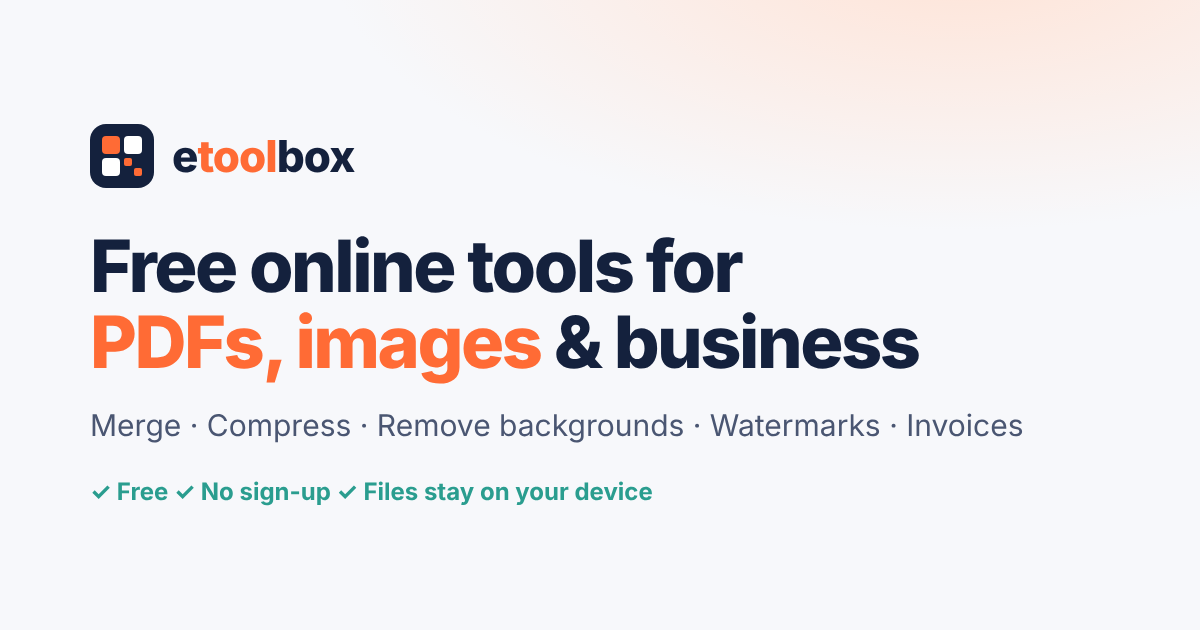
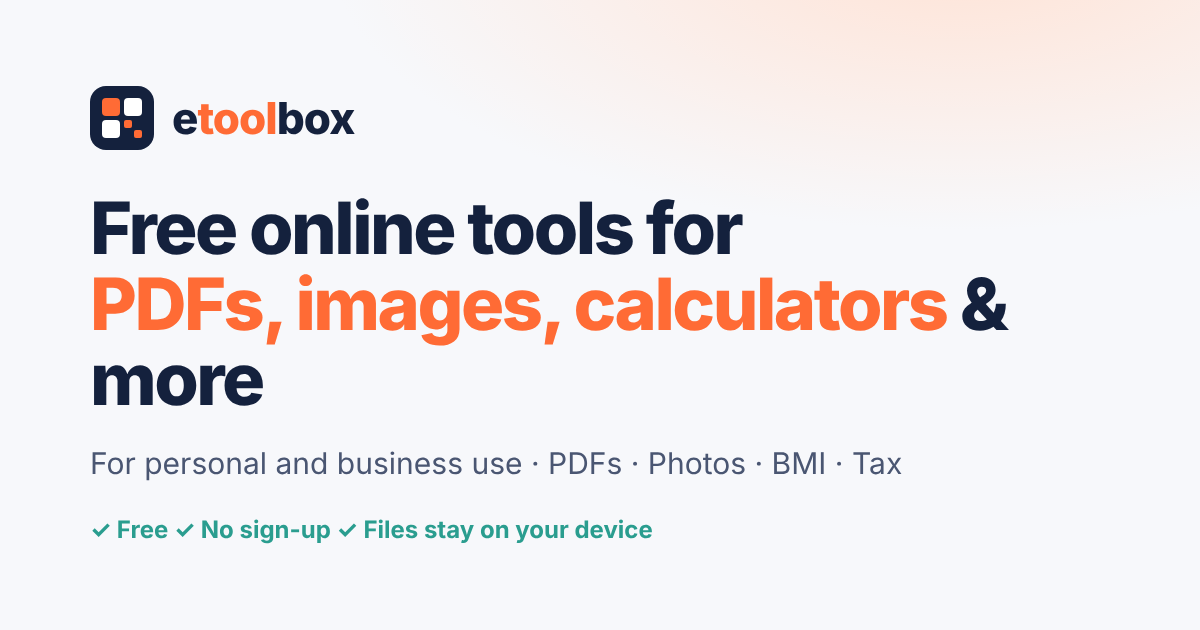
Homepage heading: PDFs, images, calculators and more, for personal and business use; add BMI to popular tools; update title, description and OG image
Claude-Session: https://claude.ai/code/session_01GjMevr6PLp3fW9vrzHc816

Changed region(s): [[0.0617, 0.1206, 0.8633, 0.8746]]

diff --git a/index.html b/index.html
@@ -3,14 +3,14 @@
 <head>
 <meta charset="utf-8">
 <meta name="viewport" content="width=device-width, initial-scale=1">
-<title>Free Online PDF, Image &amp; Business Tools – No Sign-up | etoolbox</title>
-<meta name="description" content="Merge, compress and convert PDFs, remove image backgrounds with AI, add watermarks, make invoices and work out UK tax. 72 free tools that run in your browser, so your files stay private.">
+<title>Free Online Tools – PDF, Image &amp; Calculators, No Sign-up | etoolbox</title>
+<meta name="description" content="Free tools for personal and business use: merge and compress PDFs, remove image backgrounds with AI, add watermarks, make invoices, and use BMI, VAT and UK tax calculators. 72 free tools that run in your browser, so your files stay private.">
 <link rel="canonical" href="https://etoolbox.co.uk/">
 <meta property="og:type" content="website">
 <meta property="og:site_name" content="etoolbox">
 <meta property="og:locale" content="en_GB">
-<meta property="og:title" content="Free Online PDF, Image &amp; Business Tools – No Sign-up | etoolbox">
-<meta property="og:description" content="Merge, compress and convert PDFs, remove image backgrounds with AI, add watermarks, make invoices and work out UK tax. 72 free tools that run in your browser, so your files stay private.">
+<meta property="og:title" content="Free Online Tools – PDF, Image &amp; Calculators, No Sign-up | etoolbox">
+<meta property="og:description" content="Free tools for personal and business use: merge and compress PDFs, remove image backgrounds with AI, add watermarks, make invoices, and use BMI, VAT and UK tax calculators. 72 free tools that run in your browser, so your files stay private.">
 <meta property="og:url" content="https://etoolbox.co.uk/">
 <meta property="og:image" content="https://etoolbox.co.uk/assets/og.png">
 <meta property="og:image:width" content="1200">
@@ -42,12 +42,12 @@
 <div class="hero-band">
 <div class="wrap hero">
   <span class="pill"><svg class="ic" aria-hidden="true"><use href="/assets/icons.svg#sparkles"/></svg> 72 free tools · No sign-up · Files stay on your device</span>
-  <h1>Free online tools for <em>PDFs, images</em> and your business</h1>
-  <p class="lead">Merge and compress PDFs, remove backgrounds with AI, add watermarks, make invoices and check your UK take-home pay. Everything runs in your browser, so nothing is uploaded.</p>
+  <h1>Free online tools for <em>PDFs, images, calculators</em> and more</h1>
+  <p class="lead">For personal and business use. Merge and compress PDFs, remove photo backgrounds with AI, add watermarks, make invoices, and check your BMI or UK take-home pay. Everything runs in your browser, so nothing is uploaded.</p>
   <div class="search hero-search" role="search"><label for="hero-search" class="sr-only">Search all tools</label>
     <svg class="ic search-ic" aria-hidden="true"><use href="/assets/icons.svg#search"/></svg><input type="search" id="hero-search" placeholder="What do you need? e.g. compress PDF, remove background" autocomplete="off" aria-controls="hero-results" aria-expanded="false">
     <ul class="search-results" id="hero-results" role="listbox" hidden></ul></div>
-  <div class="pops" aria-label="Popular tools"><a class="pop" href="/merge-pdf/"><span class="ti c-pdf"><svg class="ic" aria-hidden="true"><use href="/assets/icons.svg#files"/></svg></span><span>Merge PDF</span></a><a class="pop" href="/compress-pdf/"><span class="ti c-pdf"><svg class="ic" aria-hidden="true"><use href="/assets/icons.svg#file-down"/></svg></span><span>Compress PDF</span></a><a class="pop" href="/background-remover/"><span class="ti c-images"><svg class="ic" aria-hidden="true"><use href="/assets/icons.svg#eraser"/></svg></span><span>Remove background</span></a><a class="pop" href="/pdf-to-word/"><span class="ti c-pdf"><svg class="ic" aria-hidden="true"><use href="/assets/icons.svg#file-type"/></svg></span><span>PDF to Word</span></a><a class="pop" href="/jpg-to-pdf/"><span class="ti c-pdf"><svg class="ic" aria-hidden="true"><use href="/assets/icons.svg#file-image"/></svg></span><span>JPG to PDF</span></a><a class="pop" href="/add-watermark-to-pdf/"><span class="ti c-pdf"><svg class="ic" aria-hidden="true"><use href="/assets/icons.svg#stamp"/></svg></span><span>Watermark PDF</span></a><a class="pop" href="/invoice-generator/"><span class="ti c-docs"><svg class="ic" aria-hidden="true"><use href="/assets/icons.svg#receipt"/></svg></span><span>Invoice</span></a><a class="pop" href="/take-home-pay-calculator/"><span class="ti c-money"><svg class="ic" aria-hidden="true"><use href="/assets/icons.svg#wallet"/></svg></span><span>Take-home pay</span></a></div>
+  <div class="pops" aria-label="Popular tools"><a class="pop" href="/merge-pdf/"><span class="ti c-pdf"><svg class="ic" aria-hidden="true"><use href="/assets/icons.svg#files"/></svg></span><span>Merge PDF</span></a><a class="pop" href="/compress-pdf/"><span class="ti c-pdf"><svg class="ic" aria-hidden="true"><use href="/assets/icons.svg#file-down"/></svg></span><span>Compress PDF</span></a><a class="pop" href="/background-remover/"><span class="ti c-images"><svg class="ic" aria-hidden="true"><use href="/assets/icons.svg#eraser"/></svg></span><span>Remove background</span></a><a class="pop" href="/pdf-to-word/"><span class="ti c-pdf"><svg class="ic" aria-hidden="true"><use href="/assets/icons.svg#file-type"/></svg></span><span>PDF to Word</span></a><a class="pop" href="/jpg-to-pdf/"><span class="ti c-pdf"><svg class="ic" aria-hidden="true"><use href="/assets/icons.svg#file-image"/></svg></span><span>JPG to PDF</span></a><a class="pop" href="/add-watermark-to-pdf/"><span class="ti c-pdf"><svg class="ic" aria-hidden="true"><use href="/assets/icons.svg#stamp"/></svg></span><span>Watermark PDF</span></a><a class="pop" href="/invoice-generator/"><span class="ti c-docs"><svg class="ic" aria-hidden="true"><use href="/assets/icons.svg#receipt"/></svg></span><span>Invoice</span></a><a class="pop" href="/take-home-pay-calculator/"><span class="ti c-money"><svg class="ic" aria-hidden="true"><use href="/assets/icons.svg#wallet"/></svg></span><span>Take-home pay</span></a><a class="pop" href="/bmi-calculator/"><span class="ti c-everyday"><svg class="ic" aria-hidden="true"><use href="/assets/icons.svg#scale"/></svg></span><span>BMI calculator</span></a></div>
 </div>
 <div class="wrap"><ul class="trust">
   <li><svg class="ic" aria-hidden="true"><use href="/assets/icons.svg#lock"/></svg><div><strong>Private by design</strong><span>Files are processed on your device, not on our servers</span></div></li>

diff --git a/_build/home_page.py b/_build/home_page.py
@@ -16,7 +16,7 @@ def tabs():
 
 
 POPULAR = [("merge-pdf", "Merge PDF"), ("compress-pdf", "Compress PDF"), ("background-remover", "Remove background"), ("pdf-to-word", "PDF to Word"),
-           ("jpg-to-pdf", "JPG to PDF"), ("add-watermark-to-pdf", "Watermark PDF"), ("invoice-generator", "Invoice"), ("take-home-pay-calculator", "Take-home pay")]
+           ("jpg-to-pdf", "JPG to PDF"), ("add-watermark-to-pdf", "Watermark PDF"), ("invoice-generator", "Invoice"), ("take-home-pay-calculator", "Take-home pay"), ("bmi-calculator", "BMI calculator")]
 pop_chips = "".join(f'<a class="pop" href="/{s}/">{tool_icon(s)}<span>{n}</span></a>' for s, n in POPULAR)
 
 FEATURED = ["merge-pdf", "compress-pdf", "background-remover", "add-watermark-to-pdf", "pdf-to-word", "invoice-generator", "image-compressor", "take-home-pay-calculator"]
@@ -40,14 +40,14 @@ ORG = {"@context": "https://schema.org", "@graph": [
     {"@type": "ItemList", "name": "Free online tools", "itemListElement": [
         {"@type": "ListItem", "position": i + 1, "url": SITE + "/" + t[0] + "/", "name": html.unescape(t[2])} for i, t in enumerate(TOOLS)]}]}
 
-home = head("Free Online PDF, Image & Business Tools – No Sign-up | etoolbox",
-            f"Merge, compress and convert PDFs, remove image backgrounds with AI, add watermarks, make invoices and work out UK tax. {len(TOOLS)} free tools that run in your browser, so your files stay private.",
+home = head("Free Online Tools – PDF, Image & Calculators, No Sign-up | etoolbox",
+            f"Free tools for personal and business use: merge and compress PDFs, remove image backgrounds with AI, add watermarks, make invoices, and use BMI, VAT and UK tax calculators. {len(TOOLS)} free tools that run in your browser, so your files stay private.",
             "/", faq_ld(HOME_FAQ) + '<script type="application/ld+json">' + json.dumps(ORG) + "</script>\n") + f"""
 <div class="hero-band">
 <div class="wrap hero">
   <span class="pill">{svg("sparkles")} {len(TOOLS)} free tools · No sign-up · Files stay on your device</span>
-  <h1>Free online tools for <em>PDFs, images</em> and your business</h1>
-  <p class="lead">Merge and compress PDFs, remove backgrounds with AI, add watermarks, make invoices and check your UK take-home pay. Everything runs in your browser, so nothing is uploaded.</p>
+  <h1>Free online tools for <em>PDFs, images, calculators</em> and more</h1>
+  <p class="lead">For personal and business use. Merge and compress PDFs, remove photo backgrounds with AI, add watermarks, make invoices, and check your BMI or UK take-home pay. Everything runs in your browser, so nothing is uploaded.</p>
   <div class="search hero-search" role="search"><label for="hero-search" class="sr-only">Search all tools</label>
     {svg("search", "ic search-ic")}<input type="search" id="hero-search" placeholder="What do you need? e.g. compress PDF, remove background" autocomplete="off" aria-controls="hero-results" aria-expanded="false">
     <ul class="search-results" id="hero-results" role="listbox" hidden></ul></div>
